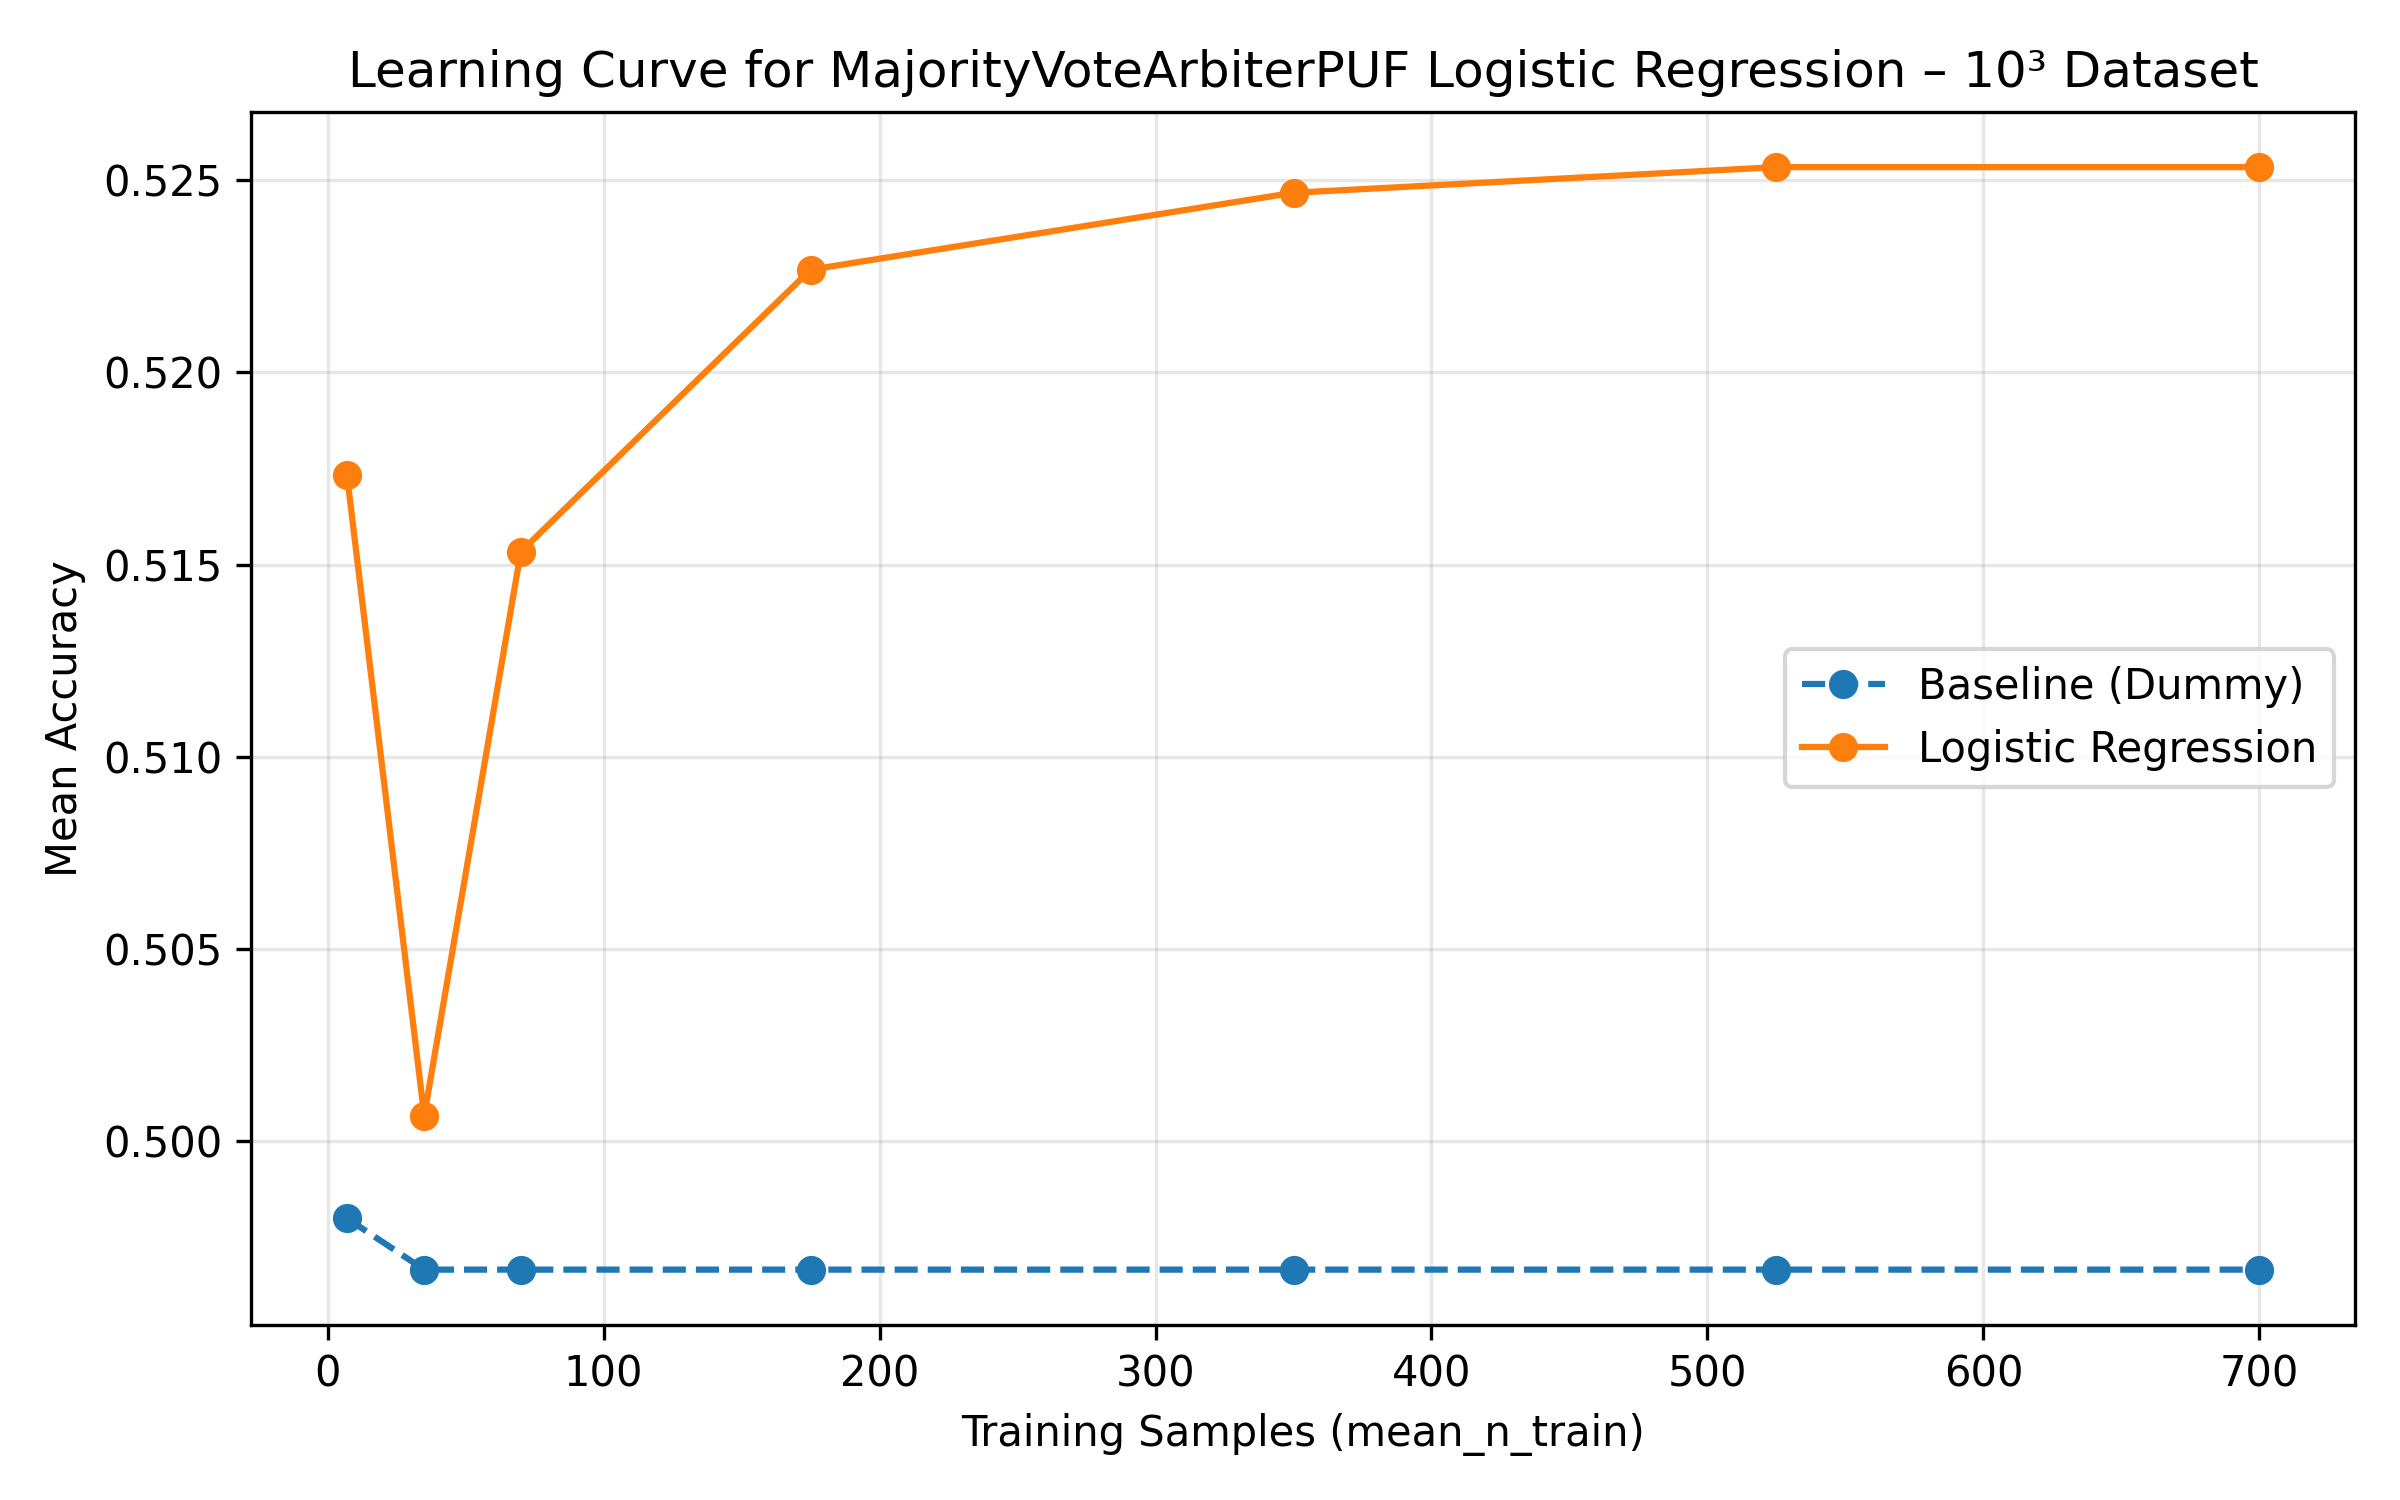
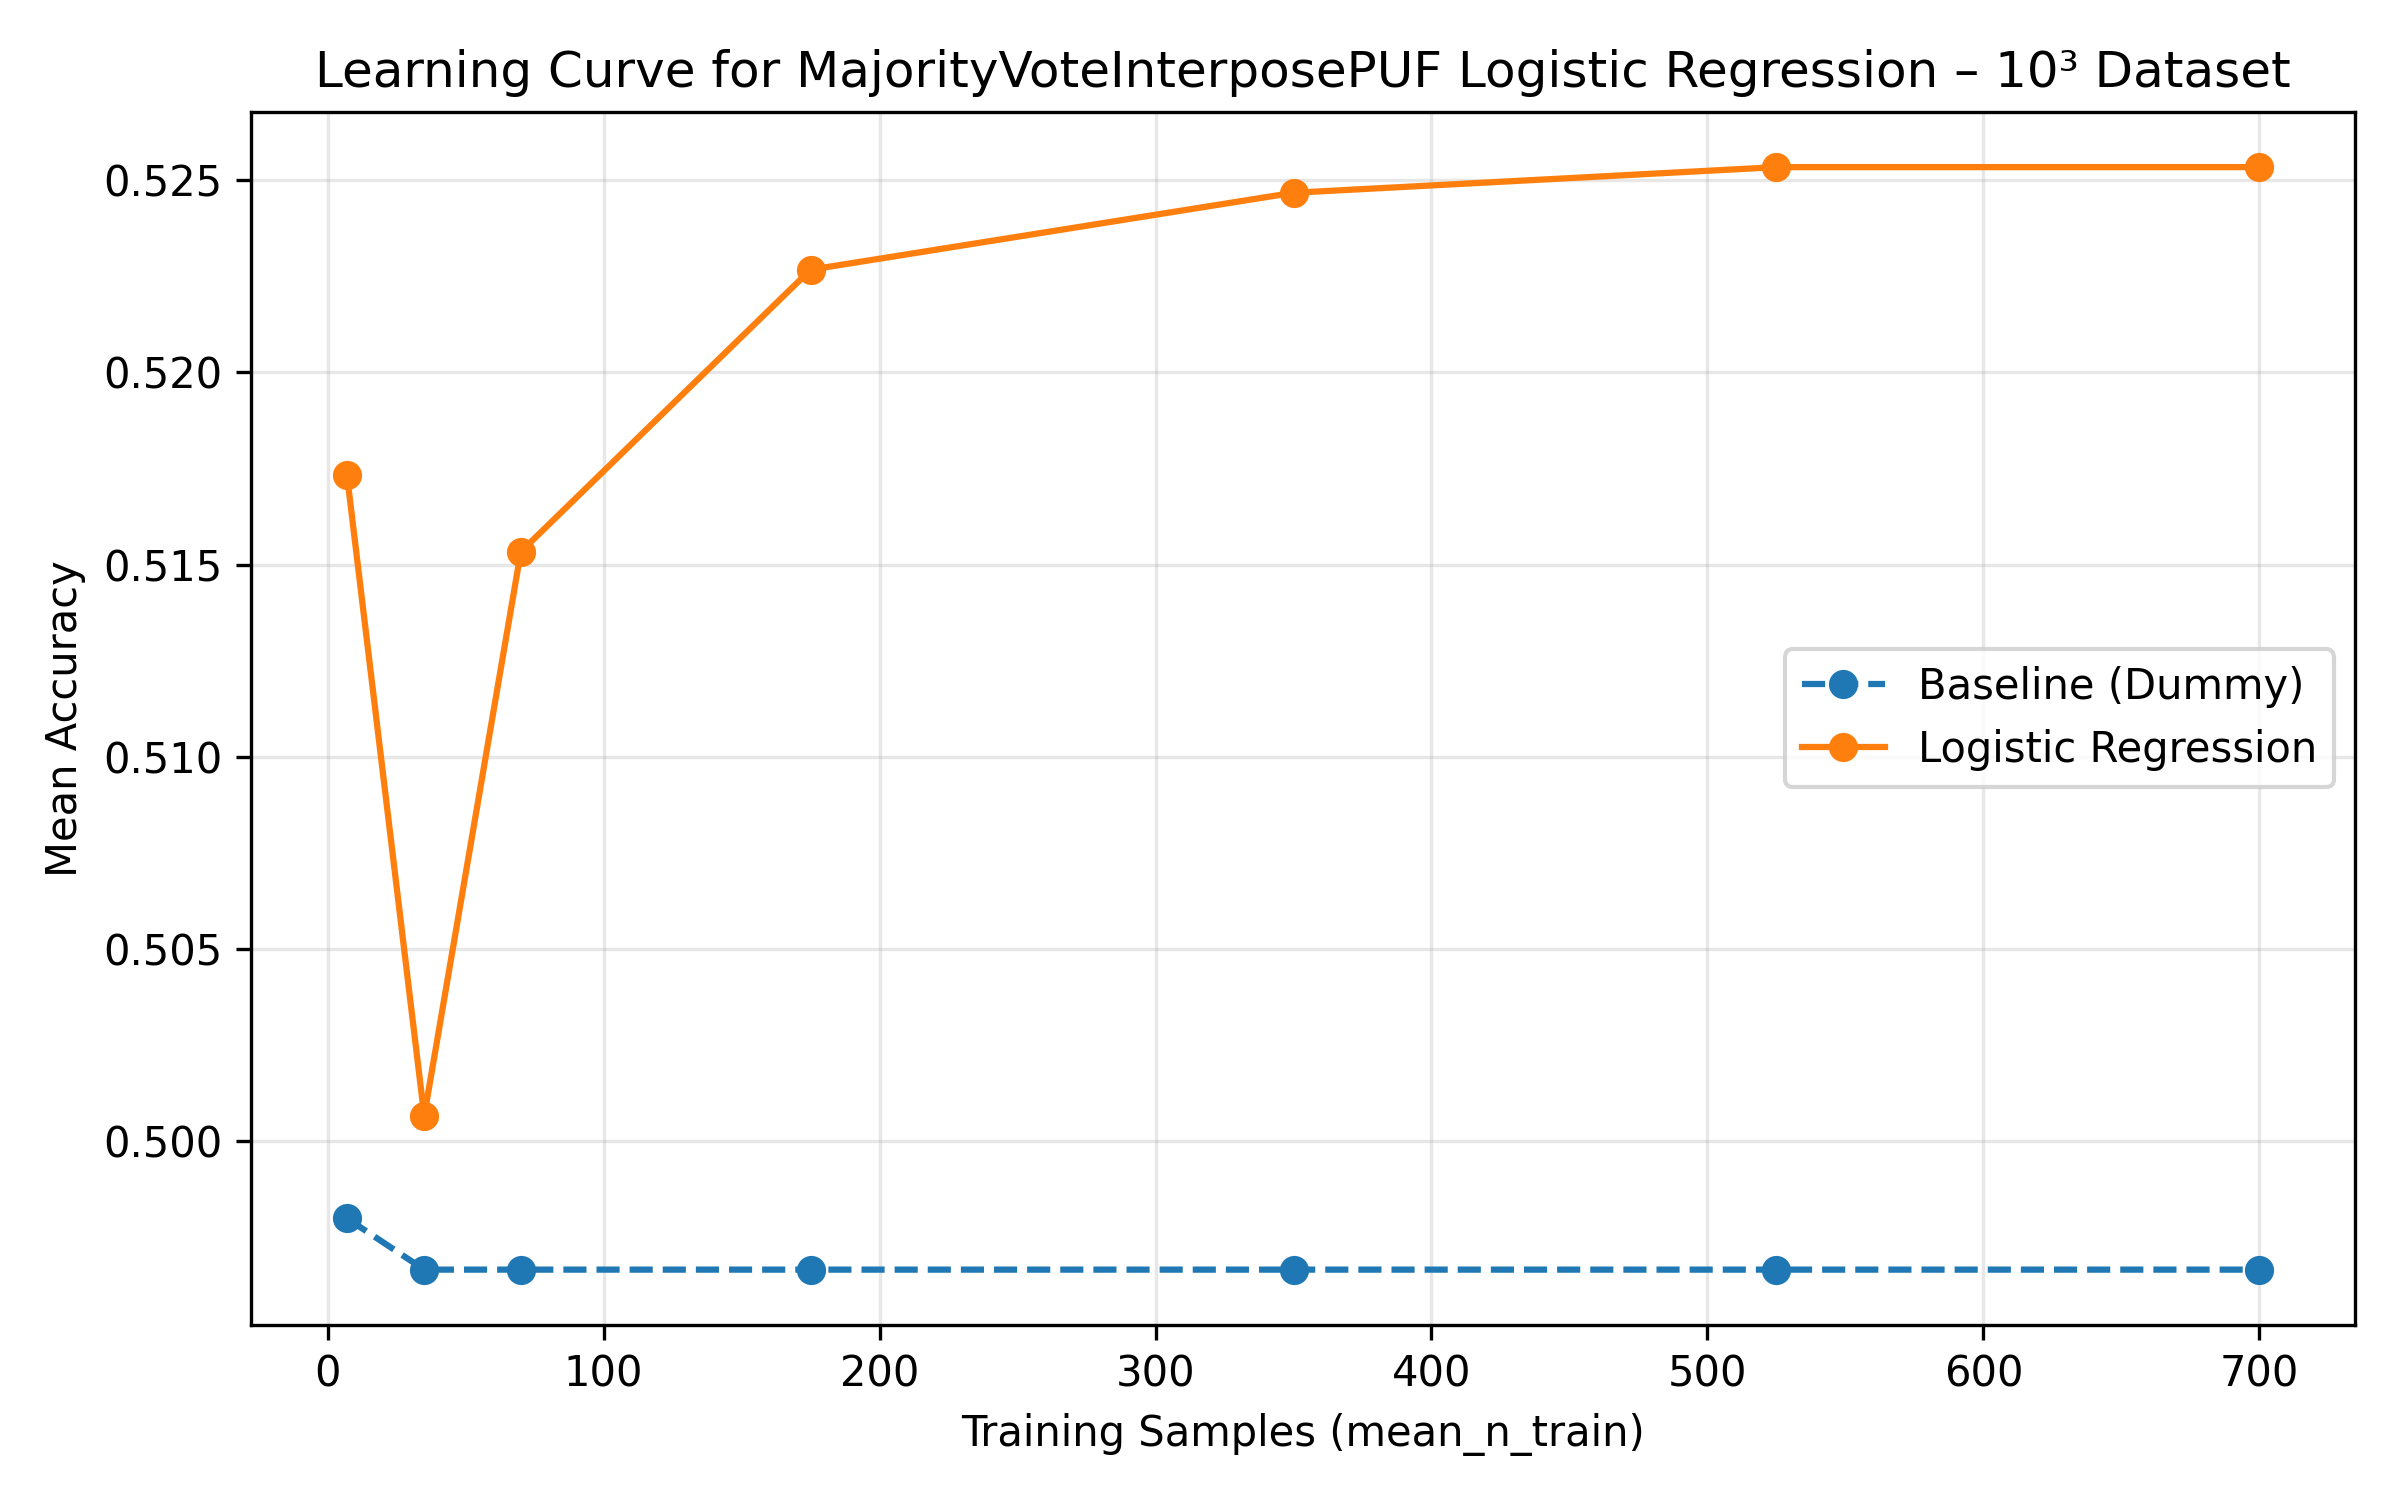
Visualization for MVAPUF added

Changed region(s): [[0.125, 0.0307, 0.9688, 0.0613]]

diff --git a/LogisticRegressionModel/data_visualization/plot_learning_curve_10^3_mva.py b/LogisticRegressionModel/data_visualization/plot_learning_curve_10^3_mva.py
@@ -8,7 +8,7 @@ csv_path = os.path.join(
     script_dir,
     "..",
     "LRResults",
-    "learning_curve_summary_10^3_mvi_crp.csv"
+    "learning_curve_summary_10^3_mva_crp.csv"
 )
 
 csv_path = os.path.normpath(csv_path)
@@ -41,11 +41,11 @@ plt.plot(
 # Styling
 plt.xlabel("Training Samples (mean_n_train)")
 plt.ylabel("Mean Accuracy")
-plt.title("Learning Curve for MajorityVoteInterposePUF Logistic Regression – 10³ Dataset")
+plt.title("Learning Curve for MajorityVoteArbiterPUF Logistic Regression – 10³ Dataset")
 plt.grid(True, alpha=0.3)
 plt.legend()
 
 plt.tight_layout()
-plt.savefig("learning_curve_10^3_mvi.png", dpi=300)
+plt.savefig("learning_curve_10^3_mva.png", dpi=300)
 
 plt.show()
